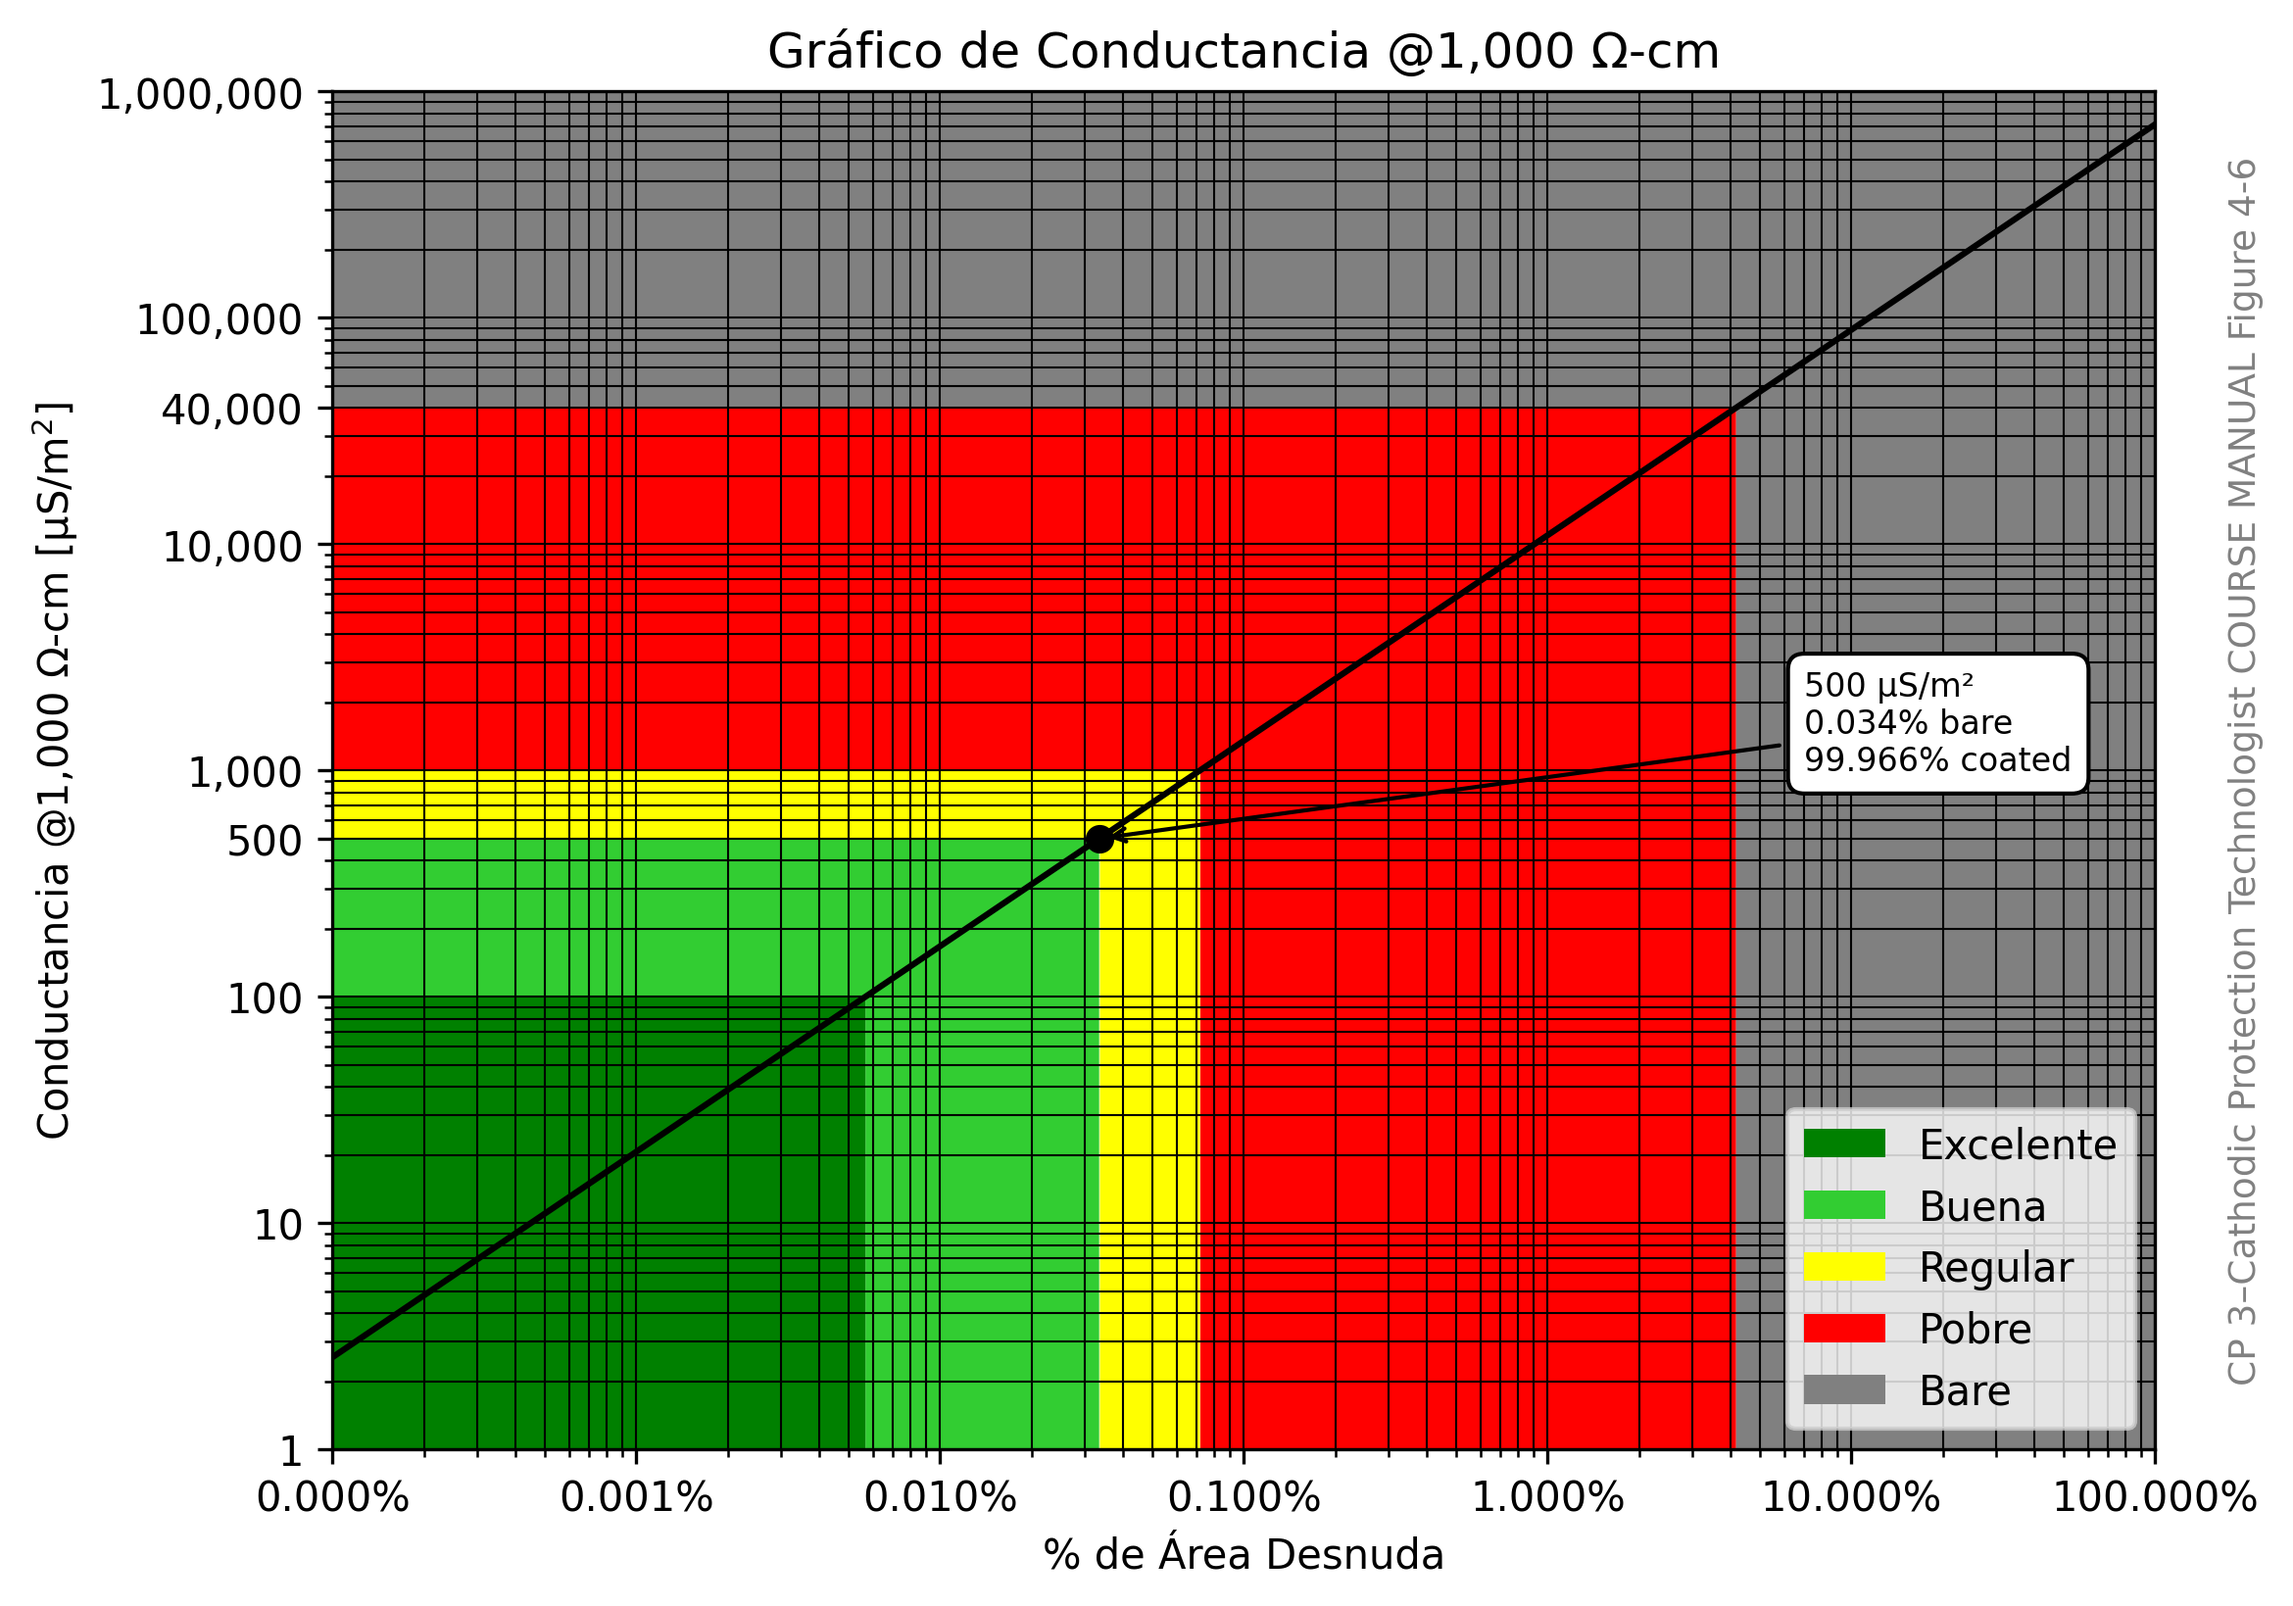
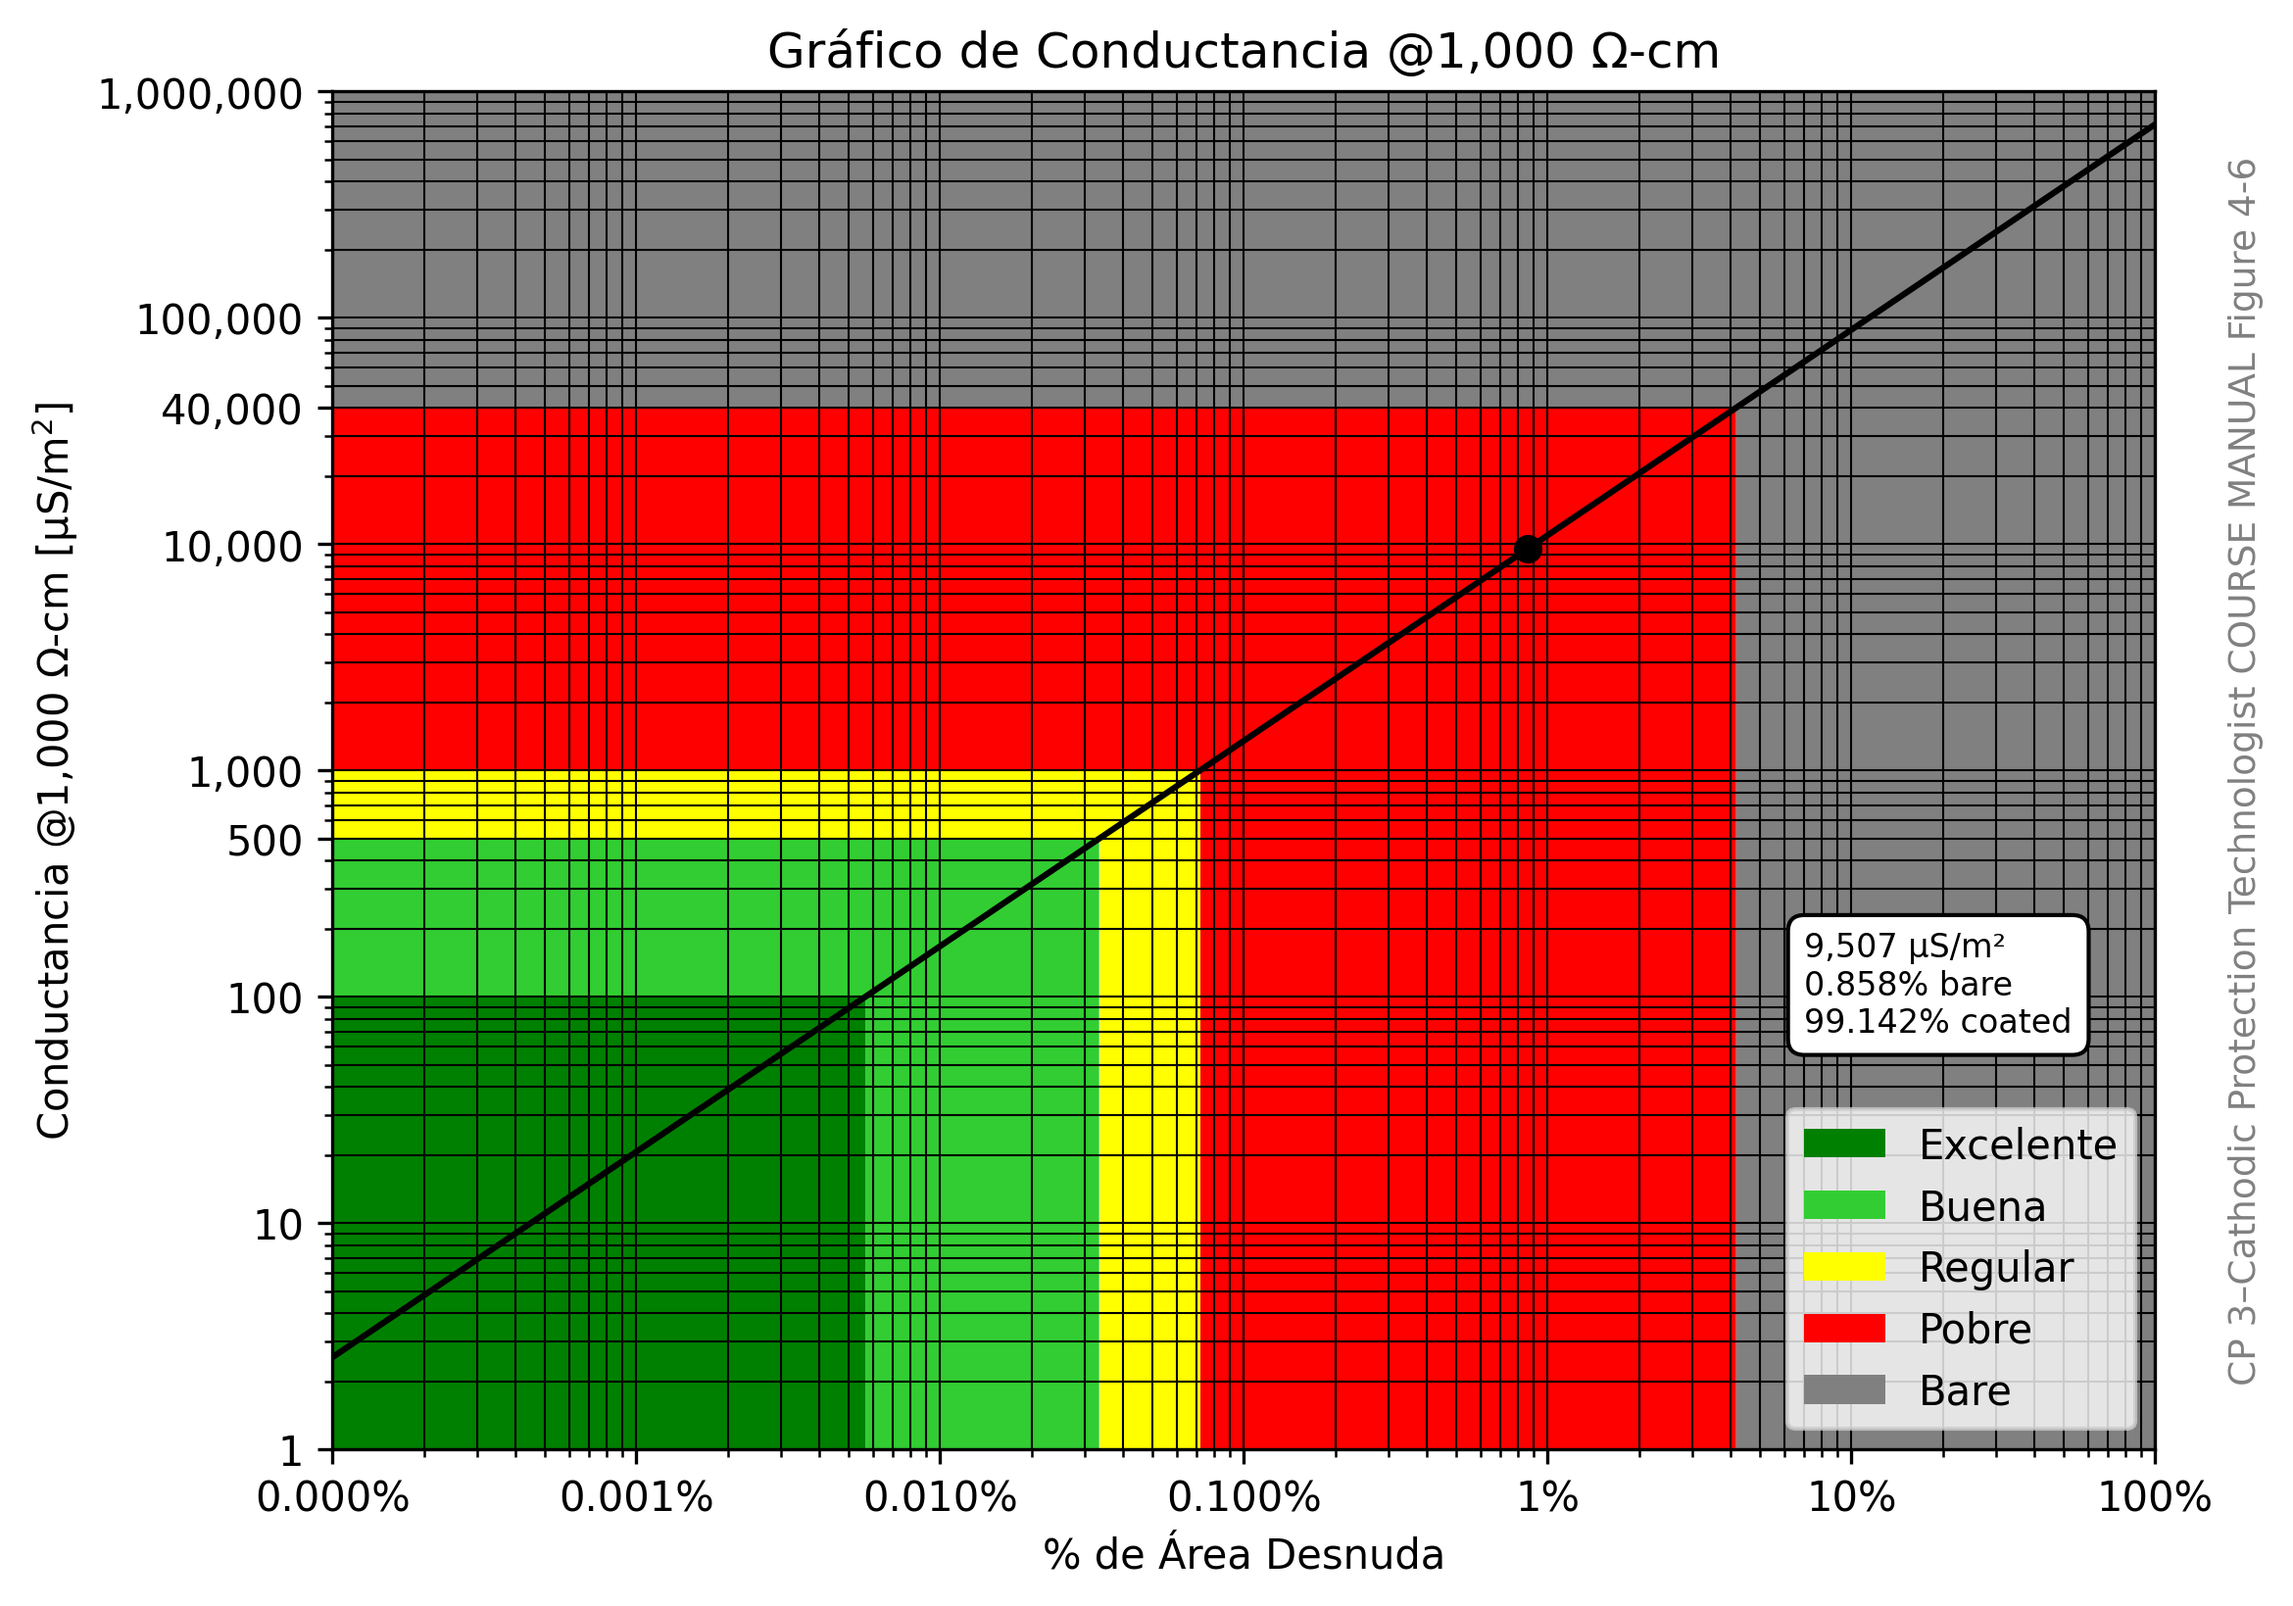
Refactor annotation and axis formatting in funciones.py for improved clarity and consistency

diff --git a/funciones.py b/funciones.py
@@ -214,10 +214,12 @@ def tuberias_largas(valor_conductancia):
     x_value = x[np.where(y >= valor_conductancia)[0][0]]
     ax.scatter(x_value, valor_conductancia, color='black', zorder=5)  # Coordenadas del punto
     # Anotación de un punto específico con recuadro de fondo blanco
-    ax.annotate(f'{valor_conductancia:,.0f} μS/m²\n{x_value:.3f}% bare\n{100-x_value:.3f}% coated', xy=(x_value, valor_conductancia), xytext=(7, 1000),
-                arrowprops=dict(facecolor='black', arrowstyle='->'),
-                bbox=dict(facecolor='white', edgecolor='black', boxstyle='round,pad=0.5'),
-                fontsize=8)
+    ax.annotate(f'{valor_conductancia:,.0f} μS/m²\n{x_value:.3f}% bare\n{100-x_value:.3f}% coated', 
+            xy=(x_value, valor_conductancia), 
+            # arrowprops=dict(facecolor='black', arrowstyle='->'),
+            xytext=(7, 70),
+            bbox=dict(facecolor='white', edgecolor='black', boxstyle='round,pad=0.5'),
+            fontsize=8)
 
     ax.set_xlabel('% de Área Desnuda')
     ax.set_ylabel('Conductancia @1,000 Ω-cm [μS/m$^2$]')
@@ -227,7 +229,15 @@ def tuberias_largas(valor_conductancia):
     ax.set_yscale('log')
     ax.set_xscale('log')
     ax.set_xlim(.0001,100)
-    ax.xaxis.set_major_formatter(plt.FuncFormatter(lambda x, _: f'{x:.3f}%'))
+    
+    def ty(num):
+        num=round(num*10,5)
+        if  num % 2==0:
+            return f'{num/10:.0f}%'
+        else:
+            return f'{num/10:.3f}%'
+        
+    ax.xaxis.set_major_formatter(plt.FuncFormatter(lambda x, ti: ty(x)))
     ax.yaxis.set_major_formatter(plt.FuncFormatter(lambda x, loc: "{:,}".format(int(x))))
         # Agregar etiquetas adicionales en el eje y
     additional_yticks = [ 40000, 500]
@@ -271,10 +281,12 @@ def tuberias_distribucion(valor_conductancia):
     x_value = x[np.where(y >= valor_conductancia)[0][0]]
     ax.scatter(x_value, valor_conductancia, color='black', zorder=5)  # Coordenadas del punto
     # Anotación de un punto específico con recuadro de fondo blanco
-    ax.annotate(f'{valor_conductancia:,.0f} μS/m²\n{x_value:.3f}% bare\n{100-x_value:.3f}% coated', xy=(x_value, valor_conductancia), xytext=(7, 1000),
-                arrowprops=dict(facecolor='black', arrowstyle='->'),
-                bbox=dict(facecolor='white', edgecolor='black', boxstyle='round,pad=0.5'),
-                fontsize=8)
+    ax.annotate(f'{valor_conductancia:,.0f} μS/m²\n{x_value:.3f}% bare\n{100-x_value:.3f}% coated', 
+            xy=(x_value, valor_conductancia), 
+            # arrowprops=dict(facecolor='black', arrowstyle='->'),
+            xytext=(7, 70),
+            bbox=dict(facecolor='white', edgecolor='black', boxstyle='round,pad=0.5'),
+            fontsize=8)
 
     ax.set_xlabel('% de Área Desnuda')
     ax.set_ylabel('Conductancia @1,000 Ω-cm [μS/m$^2$]')
@@ -284,7 +296,14 @@ def tuberias_distribucion(valor_conductancia):
     ax.set_yscale('log')
     ax.set_xscale('log')
     ax.set_xlim(.0001,100)
-    ax.xaxis.set_major_formatter(plt.FuncFormatter(lambda x, _: f'{x:.3f}%'))
+    def ty(num):
+        num=round(num*10,5)
+        if  num % 2==0:
+            return f'{num/10:.0f}%'
+        else:
+            return f'{num/10:.3f}%'
+        
+    ax.xaxis.set_major_formatter(plt.FuncFormatter(lambda x, ti: ty(x)))
     ax.yaxis.set_major_formatter(plt.FuncFormatter(lambda x, loc: "{:,}".format(int(x))))
         # Agregar etiquetas adicionales en el eje y
     additional_yticks = [ 40000, 5000,500]
